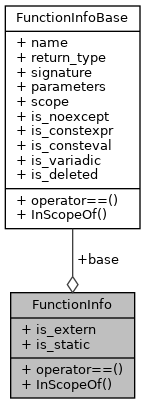
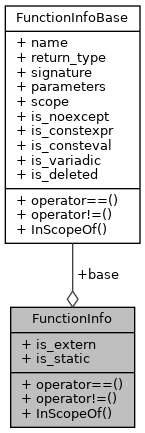
deploy: 03bf936a982f6967fe0e38f501dc85b99609b1d1

Changed region(s): [[0.0276, 0.0, 0.9655, 0.5941], [0.0552, 0.6535, 0.9379, 1.0], [0.5241, 0.6238, 0.8276, 0.6535]]

diff --git a/_function_info_8h_source.html b/_function_info_8h_source.html
@@ -110,58 +110,69 @@ $(document).ready(function(){initNavTree('_function_info_8h_source.html',''); in
 <div class="line"><a name="l00030"></a><span class="lineno">   30</span>&#160;    );</div>
 <div class="line"><a name="l00031"></a><span class="lineno">   31</span>&#160;  }</div>
 <div class="line"><a name="l00032"></a><span class="lineno">   32</span>&#160; </div>
-<div class="line"><a name="l00033"></a><span class="lineno">   33</span>&#160;  <span class="keywordtype">bool</span> InScopeOf(<span class="keyword">const</span> std::vector&lt;std::string&gt; &amp;rhs_scope) <span class="keyword">const</span> noexcept {</div>
-<div class="line"><a name="l00034"></a><span class="lineno">   34</span>&#160;    <span class="keywordflow">return</span> scope.size() &gt;= rhs_scope.size()</div>
-<div class="line"><a name="l00035"></a><span class="lineno">   35</span>&#160;      &amp;&amp; std::equal(rhs_scope.begin(), rhs_scope.end(), scope.begin());</div>
-<div class="line"><a name="l00036"></a><span class="lineno">   36</span>&#160;  }</div>
-<div class="line"><a name="l00037"></a><span class="lineno">   37</span>&#160;} <a class="code" href="struct_function_info_base.html">FunctionBase</a>;</div>
-<div class="line"><a name="l00038"></a><span class="lineno">   38</span>&#160; </div>
-<div class="line"><a name="l00043"></a><span class="lineno"><a class="line" href="struct_member_function_info.html">   43</a></span>&#160;<span class="keyword">typedef</span> <span class="keyword">struct </span><a class="code" href="struct_member_function_info.html">MemberFunctionInfo</a> {</div>
-<div class="line"><a name="l00044"></a><span class="lineno">   44</span>&#160;  <span class="keyword">enum class</span> AccessSpecifier : int {</div>
-<div class="line"><a name="l00045"></a><span class="lineno">   45</span>&#160;    kPublic,</div>
-<div class="line"><a name="l00046"></a><span class="lineno">   46</span>&#160;    kPrivate,</div>
-<div class="line"><a name="l00047"></a><span class="lineno">   47</span>&#160;    kProtected</div>
-<div class="line"><a name="l00048"></a><span class="lineno">   48</span>&#160;  };</div>
-<div class="line"><a name="l00049"></a><span class="lineno">   49</span>&#160;  <a class="code" href="struct_function_info_base.html">FunctionInfoBase</a> base;</div>
-<div class="line"><a name="l00050"></a><span class="lineno">   50</span>&#160;  std::string class_name;</div>
-<div class="line"><a name="l00051"></a><span class="lineno">   51</span>&#160;  <span class="keyword">enum</span> AccessSpecifier access_specifier;</div>
-<div class="line"><a name="l00052"></a><span class="lineno">   52</span>&#160;  <span class="keywordtype">bool</span> is_const = <span class="keyword">false</span>;</div>
-<div class="line"><a name="l00053"></a><span class="lineno">   53</span>&#160;  <span class="keywordtype">bool</span> is_volatile = <span class="keyword">false</span>;</div>
-<div class="line"><a name="l00054"></a><span class="lineno">   54</span>&#160;  <span class="keywordtype">bool</span> is_polymorphic = <span class="keyword">false</span>;  </div>
-<div class="line"><a name="l00055"></a><span class="lineno"><a class="line" href="struct_member_function_info.html#a7a6d151d49ed90f919416332c3b09677">   55</a></span>&#160;  std::vector&lt;std::string&gt; <a class="code" href="struct_member_function_info.html#a7a6d151d49ed90f919416332c3b09677">base_classes</a>;</div>
-<div class="line"><a name="l00056"></a><span class="lineno">   56</span>&#160; </div>
-<div class="line"><a name="l00057"></a><span class="lineno">   57</span>&#160;  <span class="keywordtype">bool</span> operator== (<span class="keyword">const</span> <a class="code" href="struct_member_function_info.html">MemberFunctionInfo</a> &amp;rhs) <span class="keyword">const</span> noexcept {</div>
-<div class="line"><a name="l00058"></a><span class="lineno">   58</span>&#160;    <span class="keywordflow">return</span> (base == rhs.base</div>
-<div class="line"><a name="l00059"></a><span class="lineno">   59</span>&#160;      &amp;&amp; class_name == rhs.class_name</div>
-<div class="line"><a name="l00060"></a><span class="lineno">   60</span>&#160;      &amp;&amp; is_const == rhs.is_const</div>
-<div class="line"><a name="l00061"></a><span class="lineno">   61</span>&#160;      &amp;&amp; is_volatile == rhs.is_volatile</div>
-<div class="line"><a name="l00062"></a><span class="lineno">   62</span>&#160;    );</div>
-<div class="line"><a name="l00063"></a><span class="lineno">   63</span>&#160;  }</div>
-<div class="line"><a name="l00064"></a><span class="lineno">   64</span>&#160; </div>
-<div class="line"><a name="l00065"></a><span class="lineno">   65</span>&#160;  <span class="keywordtype">bool</span> InScopeOf(<span class="keyword">const</span> std::vector&lt;std::string&gt; &amp;rhs_scope) <span class="keyword">const</span> noexcept {</div>
-<div class="line"><a name="l00066"></a><span class="lineno">   66</span>&#160;    <span class="keywordflow">return</span> base.InScopeOf(rhs_scope);</div>
-<div class="line"><a name="l00067"></a><span class="lineno">   67</span>&#160;  }</div>
-<div class="line"><a name="l00068"></a><span class="lineno">   68</span>&#160;} <a class="code" href="struct_member_function_info.html">MemberFunctionInfo</a>;</div>
-<div class="line"><a name="l00069"></a><span class="lineno">   69</span>&#160; </div>
-<div class="line"><a name="l00074"></a><span class="lineno"><a class="line" href="struct_function_info.html">   74</a></span>&#160;<span class="keyword">typedef</span> <span class="keyword">struct </span><a class="code" href="struct_function_info.html">FunctionInfo</a> {</div>
-<div class="line"><a name="l00075"></a><span class="lineno">   75</span>&#160;  <a class="code" href="struct_function_info_base.html">FunctionInfoBase</a> base;</div>
-<div class="line"><a name="l00076"></a><span class="lineno">   76</span>&#160;  <span class="keywordtype">bool</span> is_extern = <span class="keyword">false</span>;</div>
-<div class="line"><a name="l00077"></a><span class="lineno">   77</span>&#160;  <span class="keywordtype">bool</span> is_static = <span class="keyword">false</span>;</div>
-<div class="line"><a name="l00078"></a><span class="lineno">   78</span>&#160; </div>
-<div class="line"><a name="l00079"></a><span class="lineno">   79</span>&#160;  <span class="keywordtype">bool</span> operator== (<span class="keyword">const</span> <a class="code" href="struct_function_info.html">FunctionInfo</a> &amp;rhs) <span class="keyword">const</span> noexcept {</div>
-<div class="line"><a name="l00080"></a><span class="lineno">   80</span>&#160;    <span class="keywordflow">return</span> (base == rhs.base</div>
-<div class="line"><a name="l00081"></a><span class="lineno">   81</span>&#160;    );</div>
-<div class="line"><a name="l00082"></a><span class="lineno">   82</span>&#160;  }</div>
-<div class="line"><a name="l00083"></a><span class="lineno">   83</span>&#160; </div>
-<div class="line"><a name="l00084"></a><span class="lineno">   84</span>&#160;  <span class="keywordtype">bool</span> InScopeOf(<span class="keyword">const</span> std::vector&lt;std::string&gt; &amp;rhs_scope) <span class="keyword">const</span> noexcept {</div>
-<div class="line"><a name="l00085"></a><span class="lineno">   85</span>&#160;    <span class="keywordflow">return</span> base.InScopeOf(rhs_scope);</div>
-<div class="line"><a name="l00086"></a><span class="lineno">   86</span>&#160;  }</div>
-<div class="line"><a name="l00087"></a><span class="lineno">   87</span>&#160;} <a class="code" href="struct_function_info.html">FunctionInfo</a>;</div>
+<div class="line"><a name="l00033"></a><span class="lineno">   33</span>&#160;  <span class="keywordtype">bool</span> operator!= (<span class="keyword">const</span> <a class="code" href="struct_function_info_base.html">FunctionInfoBase</a> &amp;rhs) <span class="keyword">const</span> noexcept {</div>
+<div class="line"><a name="l00034"></a><span class="lineno">   34</span>&#160;    <span class="keywordflow">return</span> !(this-&gt;<a class="code" href="struct_function_info_base.html#a1328156eaf47d5de0c595598dc772e3c">operator==</a>(rhs));</div>
+<div class="line"><a name="l00035"></a><span class="lineno">   35</span>&#160;  }</div>
+<div class="line"><a name="l00036"></a><span class="lineno">   36</span>&#160; </div>
+<div class="line"><a name="l00037"></a><span class="lineno">   37</span>&#160;  <span class="keywordtype">bool</span> InScopeOf(<span class="keyword">const</span> std::vector&lt;std::string&gt; &amp;rhs_scope) <span class="keyword">const</span> noexcept {</div>
+<div class="line"><a name="l00038"></a><span class="lineno">   38</span>&#160;    <span class="keywordflow">return</span> scope.size() &gt;= rhs_scope.size()</div>
+<div class="line"><a name="l00039"></a><span class="lineno">   39</span>&#160;      &amp;&amp; std::equal(rhs_scope.begin(), rhs_scope.end(), scope.begin());</div>
+<div class="line"><a name="l00040"></a><span class="lineno">   40</span>&#160;  }</div>
+<div class="line"><a name="l00041"></a><span class="lineno">   41</span>&#160;} <a class="code" href="struct_function_info_base.html">FunctionBase</a>;</div>
+<div class="line"><a name="l00042"></a><span class="lineno">   42</span>&#160; </div>
+<div class="line"><a name="l00047"></a><span class="lineno"><a class="line" href="struct_member_function_info.html">   47</a></span>&#160;<span class="keyword">typedef</span> <span class="keyword">struct </span><a class="code" href="struct_member_function_info.html">MemberFunctionInfo</a> {</div>
+<div class="line"><a name="l00048"></a><span class="lineno">   48</span>&#160;  <span class="keyword">enum class</span> AccessSpecifier : int {</div>
+<div class="line"><a name="l00049"></a><span class="lineno">   49</span>&#160;    kPublic,</div>
+<div class="line"><a name="l00050"></a><span class="lineno">   50</span>&#160;    kPrivate,</div>
+<div class="line"><a name="l00051"></a><span class="lineno">   51</span>&#160;    kProtected</div>
+<div class="line"><a name="l00052"></a><span class="lineno">   52</span>&#160;  };</div>
+<div class="line"><a name="l00053"></a><span class="lineno">   53</span>&#160;  <a class="code" href="struct_function_info_base.html">FunctionInfoBase</a> base;</div>
+<div class="line"><a name="l00054"></a><span class="lineno">   54</span>&#160;  std::string class_name;</div>
+<div class="line"><a name="l00055"></a><span class="lineno">   55</span>&#160;  <span class="keyword">enum</span> AccessSpecifier access_specifier;</div>
+<div class="line"><a name="l00056"></a><span class="lineno">   56</span>&#160;  <span class="keywordtype">bool</span> is_const = <span class="keyword">false</span>;</div>
+<div class="line"><a name="l00057"></a><span class="lineno">   57</span>&#160;  <span class="keywordtype">bool</span> is_volatile = <span class="keyword">false</span>;</div>
+<div class="line"><a name="l00058"></a><span class="lineno">   58</span>&#160;  <span class="keywordtype">bool</span> is_polymorphic = <span class="keyword">false</span>;  </div>
+<div class="line"><a name="l00059"></a><span class="lineno"><a class="line" href="struct_member_function_info.html#a7a6d151d49ed90f919416332c3b09677">   59</a></span>&#160;  std::vector&lt;std::string&gt; <a class="code" href="struct_member_function_info.html#a7a6d151d49ed90f919416332c3b09677">base_classes</a>;</div>
+<div class="line"><a name="l00060"></a><span class="lineno">   60</span>&#160; </div>
+<div class="line"><a name="l00061"></a><span class="lineno">   61</span>&#160;  <span class="keywordtype">bool</span> operator== (<span class="keyword">const</span> <a class="code" href="struct_member_function_info.html">MemberFunctionInfo</a> &amp;rhs) <span class="keyword">const</span> noexcept {</div>
+<div class="line"><a name="l00062"></a><span class="lineno">   62</span>&#160;    <span class="keywordflow">return</span> (base == rhs.base</div>
+<div class="line"><a name="l00063"></a><span class="lineno">   63</span>&#160;      &amp;&amp; is_const == rhs.is_const</div>
+<div class="line"><a name="l00064"></a><span class="lineno">   64</span>&#160;      &amp;&amp; is_volatile == rhs.is_volatile</div>
+<div class="line"><a name="l00065"></a><span class="lineno">   65</span>&#160;    );</div>
+<div class="line"><a name="l00066"></a><span class="lineno">   66</span>&#160;  }</div>
+<div class="line"><a name="l00067"></a><span class="lineno">   67</span>&#160; </div>
+<div class="line"><a name="l00068"></a><span class="lineno">   68</span>&#160;  <span class="keywordtype">bool</span> operator!= (<span class="keyword">const</span> <a class="code" href="struct_member_function_info.html">MemberFunctionInfo</a> &amp;rhs) <span class="keyword">const</span> noexcept {</div>
+<div class="line"><a name="l00069"></a><span class="lineno">   69</span>&#160;    <span class="keywordflow">return</span> !(this-&gt;operator==(rhs));</div>
+<div class="line"><a name="l00070"></a><span class="lineno">   70</span>&#160;  }</div>
+<div class="line"><a name="l00071"></a><span class="lineno">   71</span>&#160; </div>
+<div class="line"><a name="l00072"></a><span class="lineno">   72</span>&#160;  <span class="keywordtype">bool</span> InScopeOf(<span class="keyword">const</span> std::vector&lt;std::string&gt; &amp;rhs_scope) <span class="keyword">const</span> noexcept {</div>
+<div class="line"><a name="l00073"></a><span class="lineno">   73</span>&#160;    <span class="keywordflow">return</span> base.InScopeOf(rhs_scope);</div>
+<div class="line"><a name="l00074"></a><span class="lineno">   74</span>&#160;  }</div>
+<div class="line"><a name="l00075"></a><span class="lineno">   75</span>&#160;} <a class="code" href="struct_member_function_info.html">MemberFunctionInfo</a>;</div>
+<div class="line"><a name="l00076"></a><span class="lineno">   76</span>&#160; </div>
+<div class="line"><a name="l00081"></a><span class="lineno"><a class="line" href="struct_function_info.html">   81</a></span>&#160;<span class="keyword">typedef</span> <span class="keyword">struct </span><a class="code" href="struct_function_info.html">FunctionInfo</a> {</div>
+<div class="line"><a name="l00082"></a><span class="lineno">   82</span>&#160;  <a class="code" href="struct_function_info_base.html">FunctionInfoBase</a> base;</div>
+<div class="line"><a name="l00083"></a><span class="lineno">   83</span>&#160;  <span class="keywordtype">bool</span> is_extern = <span class="keyword">false</span>;</div>
+<div class="line"><a name="l00084"></a><span class="lineno">   84</span>&#160;  <span class="keywordtype">bool</span> is_static = <span class="keyword">false</span>;</div>
+<div class="line"><a name="l00085"></a><span class="lineno">   85</span>&#160; </div>
+<div class="line"><a name="l00086"></a><span class="lineno">   86</span>&#160;  <span class="keywordtype">bool</span> operator== (<span class="keyword">const</span> <a class="code" href="struct_function_info.html">FunctionInfo</a> &amp;rhs) <span class="keyword">const</span> noexcept {</div>
+<div class="line"><a name="l00087"></a><span class="lineno">   87</span>&#160;    <span class="keywordflow">return</span> (base == rhs.base</div>
+<div class="line"><a name="l00088"></a><span class="lineno">   88</span>&#160;    );</div>
+<div class="line"><a name="l00089"></a><span class="lineno">   89</span>&#160;  }</div>
+<div class="line"><a name="l00090"></a><span class="lineno">   90</span>&#160; </div>
+<div class="line"><a name="l00091"></a><span class="lineno">   91</span>&#160;  <span class="keywordtype">bool</span> operator!= (<span class="keyword">const</span> <a class="code" href="struct_function_info.html">FunctionInfo</a> &amp;rhs) <span class="keyword">const</span> noexcept {</div>
+<div class="line"><a name="l00092"></a><span class="lineno">   92</span>&#160;    <span class="keywordflow">return</span> !(this-&gt;operator==(rhs));</div>
+<div class="line"><a name="l00093"></a><span class="lineno">   93</span>&#160;  }</div>
+<div class="line"><a name="l00094"></a><span class="lineno">   94</span>&#160; </div>
+<div class="line"><a name="l00095"></a><span class="lineno">   95</span>&#160;  <span class="keywordtype">bool</span> InScopeOf(<span class="keyword">const</span> std::vector&lt;std::string&gt; &amp;rhs_scope) <span class="keyword">const</span> noexcept {</div>
+<div class="line"><a name="l00096"></a><span class="lineno">   96</span>&#160;    <span class="keywordflow">return</span> base.InScopeOf(rhs_scope);</div>
+<div class="line"><a name="l00097"></a><span class="lineno">   97</span>&#160;  }</div>
+<div class="line"><a name="l00098"></a><span class="lineno">   98</span>&#160;} <a class="code" href="struct_function_info.html">FunctionInfo</a>;</div>
 <div class="ttc" id="astruct_function_info_base_html"><div class="ttname"><a href="struct_function_info_base.html">FunctionInfoBase</a></div><div class="ttdef"><b>Definition:</b> FunctionInfo.h:5</div></div>
 <div class="ttc" id="astruct_function_info_base_html_a1328156eaf47d5de0c595598dc772e3c"><div class="ttname"><a href="struct_function_info_base.html#a1328156eaf47d5de0c595598dc772e3c">FunctionInfoBase::operator==</a></div><div class="ttdeci">bool operator==(const FunctionInfoBase &amp;rhs) const noexcept</div><div class="ttdoc">operator== for overload check</div><div class="ttdef"><b>Definition:</b> FunctionInfo.h:26</div></div>
-<div class="ttc" id="astruct_function_info_html"><div class="ttname"><a href="struct_function_info.html">FunctionInfo</a></div><div class="ttdoc">Function Info.</div><div class="ttdef"><b>Definition:</b> FunctionInfo.h:74</div></div>
-<div class="ttc" id="astruct_member_function_info_html"><div class="ttname"><a href="struct_member_function_info.html">MemberFunctionInfo</a></div><div class="ttdoc">Member Function Info.</div><div class="ttdef"><b>Definition:</b> FunctionInfo.h:43</div></div>
-<div class="ttc" id="astruct_member_function_info_html_a7a6d151d49ed90f919416332c3b09677"><div class="ttname"><a href="struct_member_function_info.html#a7a6d151d49ed90f919416332c3b09677">MemberFunctionInfo::base_classes</a></div><div class="ttdeci">std::vector&lt; std::string &gt; base_classes</div><div class="ttdoc">virtual, override or final</div><div class="ttdef"><b>Definition:</b> FunctionInfo.h:55</div></div>
+<div class="ttc" id="astruct_function_info_html"><div class="ttname"><a href="struct_function_info.html">FunctionInfo</a></div><div class="ttdoc">Function Info.</div><div class="ttdef"><b>Definition:</b> FunctionInfo.h:81</div></div>
+<div class="ttc" id="astruct_member_function_info_html"><div class="ttname"><a href="struct_member_function_info.html">MemberFunctionInfo</a></div><div class="ttdoc">Member Function Info.</div><div class="ttdef"><b>Definition:</b> FunctionInfo.h:47</div></div>
+<div class="ttc" id="astruct_member_function_info_html_a7a6d151d49ed90f919416332c3b09677"><div class="ttname"><a href="struct_member_function_info.html#a7a6d151d49ed90f919416332c3b09677">MemberFunctionInfo::base_classes</a></div><div class="ttdeci">std::vector&lt; std::string &gt; base_classes</div><div class="ttdoc">virtual, override or final</div><div class="ttdef"><b>Definition:</b> FunctionInfo.h:59</div></div>
 </div><!-- fragment --></div><!-- contents -->
 </div><!-- doc-content -->
 <!-- start footer part -->

diff --git a/navtreeindex0.js b/navtreeindex0.js
@@ -89,38 +89,41 @@ var NAVTREEINDEX0 =
 "index.html#autotoc_md3":[2],
 "pages.html":[],
 "struct_function_info.html":[3,0,4],
-"struct_function_info.html#a029827f36fe5291a90f5d6815cb9b476":[3,0,4,3],
-"struct_function_info.html#a425ff05a53639f5a5dbec93ae5a2dc3a":[3,0,4,2],
-"struct_function_info.html#a85a8883b128b827424eea5e62fea06b0":[3,0,4,1],
-"struct_function_info.html#a89a47a986c4604fb3f60587b083601f0":[3,0,4,4],
+"struct_function_info.html#a029827f36fe5291a90f5d6815cb9b476":[3,0,4,4],
+"struct_function_info.html#a425ff05a53639f5a5dbec93ae5a2dc3a":[3,0,4,3],
+"struct_function_info.html#a85a8883b128b827424eea5e62fea06b0":[3,0,4,2],
+"struct_function_info.html#a89a47a986c4604fb3f60587b083601f0":[3,0,4,5],
+"struct_function_info.html#ab1622aad036acb0c30dfc29440590562":[3,0,4,1],
 "struct_function_info.html#afc25496428761a4c6978cc37712128e7":[3,0,4,0],
 "struct_function_info_base.html":[3,0,5],
-"struct_function_info_base.html#a1328156eaf47d5de0c595598dc772e3c":[3,0,5,1],
-"struct_function_info_base.html#a13d15b1b9093853e6567a458125aed7d":[3,0,5,4],
-"struct_function_info_base.html#a140a23f77644891f38a44bdb56e42aac":[3,0,5,10],
-"struct_function_info_base.html#a4f97312e655f23d09322c238feeed8dd":[3,0,5,7],
-"struct_function_info_base.html#a8f6178ad4111d7b74a694a20cdc9468c":[3,0,5,2],
-"struct_function_info_base.html#aade7c6eaf887dc6d22d0ad11ea58897e":[3,0,5,9],
+"struct_function_info_base.html#a1328156eaf47d5de0c595598dc772e3c":[3,0,5,2],
+"struct_function_info_base.html#a13d15b1b9093853e6567a458125aed7d":[3,0,5,5],
+"struct_function_info_base.html#a140a23f77644891f38a44bdb56e42aac":[3,0,5,11],
+"struct_function_info_base.html#a4f97312e655f23d09322c238feeed8dd":[3,0,5,8],
+"struct_function_info_base.html#a555fb501076e6807b54ca5d5c18b0f67":[3,0,5,1],
+"struct_function_info_base.html#a8f6178ad4111d7b74a694a20cdc9468c":[3,0,5,3],
+"struct_function_info_base.html#aade7c6eaf887dc6d22d0ad11ea58897e":[3,0,5,10],
 "struct_function_info_base.html#aba9ea6975a654017937380d0a039c7e2":[3,0,5,0],
-"struct_function_info_base.html#ac2ecd66cafab17d770f9e93345198dca":[3,0,5,8],
-"struct_function_info_base.html#ad6e3fb462bdb5402b3d91641932c2d69":[3,0,5,11],
-"struct_function_info_base.html#adbff0c51a1e7e77e5621437be349efd5":[3,0,5,6],
-"struct_function_info_base.html#ae43bc616e5b3e9352f62d4c68608495e":[3,0,5,5],
-"struct_function_info_base.html#ae6290dd1a6a8fced103569a68ec55305":[3,0,5,3],
+"struct_function_info_base.html#ac2ecd66cafab17d770f9e93345198dca":[3,0,5,9],
+"struct_function_info_base.html#ad6e3fb462bdb5402b3d91641932c2d69":[3,0,5,12],
+"struct_function_info_base.html#adbff0c51a1e7e77e5621437be349efd5":[3,0,5,7],
+"struct_function_info_base.html#ae43bc616e5b3e9352f62d4c68608495e":[3,0,5,6],
+"struct_function_info_base.html#ae6290dd1a6a8fced103569a68ec55305":[3,0,5,4],
 "struct_member_function_info.html":[3,0,9],
-"struct_member_function_info.html#a0810f63ec37e54c2ae62b83585b0d92b":[3,0,9,8],
-"struct_member_function_info.html#a44a151cb8e3db28bd044f28d728283a7":[3,0,9,6],
-"struct_member_function_info.html#a5810c931eaa6aee214292f570720cf78":[3,0,9,4],
-"struct_member_function_info.html#a5cdab038d2a53050c1fca11b5584c7f8":[3,0,9,3],
-"struct_member_function_info.html#a7a6d151d49ed90f919416332c3b09677":[3,0,9,5],
-"struct_member_function_info.html#a87b15c204794d81bc9ab853757ca45c3":[3,0,9,9],
+"struct_member_function_info.html#a0810f63ec37e54c2ae62b83585b0d92b":[3,0,9,9],
+"struct_member_function_info.html#a1419f1e929406669d4ff9ecc70997339":[3,0,9,2],
+"struct_member_function_info.html#a44a151cb8e3db28bd044f28d728283a7":[3,0,9,7],
+"struct_member_function_info.html#a5810c931eaa6aee214292f570720cf78":[3,0,9,5],
+"struct_member_function_info.html#a5cdab038d2a53050c1fca11b5584c7f8":[3,0,9,4],
+"struct_member_function_info.html#a7a6d151d49ed90f919416332c3b09677":[3,0,9,6],
+"struct_member_function_info.html#a87b15c204794d81bc9ab853757ca45c3":[3,0,9,10],
 "struct_member_function_info.html#aad36e8db1fb2ccaa9483d9965e20bd27":[3,0,9,0],
 "struct_member_function_info.html#aad36e8db1fb2ccaa9483d9965e20bd27a23f56d95d0068609bb9b60b62af3a054":[3,0,9,0,1],
 "struct_member_function_info.html#aad36e8db1fb2ccaa9483d9965e20bd27a29b22e010bf2edfbf57a7a03522a64c9":[3,0,9,0,2],
 "struct_member_function_info.html#aad36e8db1fb2ccaa9483d9965e20bd27a8576a54b49c65252099050c24aa98095":[3,0,9,0,0],
-"struct_member_function_info.html#aced0283eb918bbf5106c72d3ad49aa8c":[3,0,9,7],
+"struct_member_function_info.html#aced0283eb918bbf5106c72d3ad49aa8c":[3,0,9,8],
 "struct_member_function_info.html#adda7314112dec2720e5ee0cc96a73616":[3,0,9,1],
-"struct_member_function_info.html#af4486e4066ab4496961a2c0274f5141f":[3,0,9,2],
+"struct_member_function_info.html#af4486e4066ab4496961a2c0274f5141f":[3,0,9,3],
 "struct_scope_info.html":[3,0,10],
 "struct_scope_info.html#a286b0a8f605eaefaa12d8cd53fd67f6e":[3,0,10,1],
 "struct_scope_info.html#a3704af78e6b8cab0d20950a5ea4e5a98":[3,0,10,2],

diff --git a/struct_function_info_base-members.html b/struct_function_info_base-members.html
@@ -97,11 +97,12 @@ $(document).ready(function(){initNavTree('struct_function_info_base.html',''); i
   <tr bgcolor="#f0f0f0" class="even"><td class="entry"><b>is_noexcept</b> (defined in <a class="el" href="struct_function_info_base.html">FunctionInfoBase</a>)</td><td class="entry"><a class="el" href="struct_function_info_base.html">FunctionInfoBase</a></td><td class="entry"></td></tr>
   <tr bgcolor="#f0f0f0"><td class="entry"><b>is_variadic</b> (defined in <a class="el" href="struct_function_info_base.html">FunctionInfoBase</a>)</td><td class="entry"><a class="el" href="struct_function_info_base.html">FunctionInfoBase</a></td><td class="entry"></td></tr>
   <tr bgcolor="#f0f0f0" class="even"><td class="entry"><b>name</b> (defined in <a class="el" href="struct_function_info_base.html">FunctionInfoBase</a>)</td><td class="entry"><a class="el" href="struct_function_info_base.html">FunctionInfoBase</a></td><td class="entry"></td></tr>
-  <tr><td class="entry"><a class="el" href="struct_function_info_base.html#a1328156eaf47d5de0c595598dc772e3c">operator==</a>(const FunctionInfoBase &amp;rhs) const noexcept</td><td class="entry"><a class="el" href="struct_function_info_base.html">FunctionInfoBase</a></td><td class="entry"><span class="mlabel">inline</span></td></tr>
-  <tr bgcolor="#f0f0f0" class="even"><td class="entry"><b>parameters</b> (defined in <a class="el" href="struct_function_info_base.html">FunctionInfoBase</a>)</td><td class="entry"><a class="el" href="struct_function_info_base.html">FunctionInfoBase</a></td><td class="entry"></td></tr>
-  <tr bgcolor="#f0f0f0"><td class="entry"><b>return_type</b> (defined in <a class="el" href="struct_function_info_base.html">FunctionInfoBase</a>)</td><td class="entry"><a class="el" href="struct_function_info_base.html">FunctionInfoBase</a></td><td class="entry"></td></tr>
-  <tr bgcolor="#f0f0f0" class="even"><td class="entry"><b>scope</b> (defined in <a class="el" href="struct_function_info_base.html">FunctionInfoBase</a>)</td><td class="entry"><a class="el" href="struct_function_info_base.html">FunctionInfoBase</a></td><td class="entry"></td></tr>
-  <tr bgcolor="#f0f0f0"><td class="entry"><b>signature</b> (defined in <a class="el" href="struct_function_info_base.html">FunctionInfoBase</a>)</td><td class="entry"><a class="el" href="struct_function_info_base.html">FunctionInfoBase</a></td><td class="entry"></td></tr>
+  <tr bgcolor="#f0f0f0"><td class="entry"><b>operator!=</b>(const FunctionInfoBase &amp;rhs) const noexcept (defined in <a class="el" href="struct_function_info_base.html">FunctionInfoBase</a>)</td><td class="entry"><a class="el" href="struct_function_info_base.html">FunctionInfoBase</a></td><td class="entry"><span class="mlabel">inline</span></td></tr>
+  <tr class="even"><td class="entry"><a class="el" href="struct_function_info_base.html#a1328156eaf47d5de0c595598dc772e3c">operator==</a>(const FunctionInfoBase &amp;rhs) const noexcept</td><td class="entry"><a class="el" href="struct_function_info_base.html">FunctionInfoBase</a></td><td class="entry"><span class="mlabel">inline</span></td></tr>
+  <tr bgcolor="#f0f0f0"><td class="entry"><b>parameters</b> (defined in <a class="el" href="struct_function_info_base.html">FunctionInfoBase</a>)</td><td class="entry"><a class="el" href="struct_function_info_base.html">FunctionInfoBase</a></td><td class="entry"></td></tr>
+  <tr bgcolor="#f0f0f0" class="even"><td class="entry"><b>return_type</b> (defined in <a class="el" href="struct_function_info_base.html">FunctionInfoBase</a>)</td><td class="entry"><a class="el" href="struct_function_info_base.html">FunctionInfoBase</a></td><td class="entry"></td></tr>
+  <tr bgcolor="#f0f0f0"><td class="entry"><b>scope</b> (defined in <a class="el" href="struct_function_info_base.html">FunctionInfoBase</a>)</td><td class="entry"><a class="el" href="struct_function_info_base.html">FunctionInfoBase</a></td><td class="entry"></td></tr>
+  <tr bgcolor="#f0f0f0" class="even"><td class="entry"><b>signature</b> (defined in <a class="el" href="struct_function_info_base.html">FunctionInfoBase</a>)</td><td class="entry"><a class="el" href="struct_function_info_base.html">FunctionInfoBase</a></td><td class="entry"></td></tr>
 </table></div><!-- contents -->
 </div><!-- doc-content -->
 <!-- start footer part -->

diff --git a/struct_member_function_info-members.html b/struct_member_function_info-members.html
@@ -99,7 +99,8 @@ $(document).ready(function(){initNavTree('struct_member_function_info.html','');
   <tr bgcolor="#f0f0f0" class="even"><td class="entry"><b>is_const</b> (defined in <a class="el" href="struct_member_function_info.html">MemberFunctionInfo</a>)</td><td class="entry"><a class="el" href="struct_member_function_info.html">MemberFunctionInfo</a></td><td class="entry"></td></tr>
   <tr bgcolor="#f0f0f0"><td class="entry"><b>is_polymorphic</b> (defined in <a class="el" href="struct_member_function_info.html">MemberFunctionInfo</a>)</td><td class="entry"><a class="el" href="struct_member_function_info.html">MemberFunctionInfo</a></td><td class="entry"></td></tr>
   <tr bgcolor="#f0f0f0" class="even"><td class="entry"><b>is_volatile</b> (defined in <a class="el" href="struct_member_function_info.html">MemberFunctionInfo</a>)</td><td class="entry"><a class="el" href="struct_member_function_info.html">MemberFunctionInfo</a></td><td class="entry"></td></tr>
-  <tr bgcolor="#f0f0f0"><td class="entry"><b>operator==</b>(const MemberFunctionInfo &amp;rhs) const noexcept (defined in <a class="el" href="struct_member_function_info.html">MemberFunctionInfo</a>)</td><td class="entry"><a class="el" href="struct_member_function_info.html">MemberFunctionInfo</a></td><td class="entry"><span class="mlabel">inline</span></td></tr>
+  <tr bgcolor="#f0f0f0"><td class="entry"><b>operator!=</b>(const MemberFunctionInfo &amp;rhs) const noexcept (defined in <a class="el" href="struct_member_function_info.html">MemberFunctionInfo</a>)</td><td class="entry"><a class="el" href="struct_member_function_info.html">MemberFunctionInfo</a></td><td class="entry"><span class="mlabel">inline</span></td></tr>
+  <tr bgcolor="#f0f0f0" class="even"><td class="entry"><b>operator==</b>(const MemberFunctionInfo &amp;rhs) const noexcept (defined in <a class="el" href="struct_member_function_info.html">MemberFunctionInfo</a>)</td><td class="entry"><a class="el" href="struct_member_function_info.html">MemberFunctionInfo</a></td><td class="entry"><span class="mlabel">inline</span></td></tr>
 </table></div><!-- contents -->
 </div><!-- doc-content -->
 <!-- start footer part -->

diff --git a/struct_function_info_base.html b/struct_function_info_base.html
@@ -96,7 +96,7 @@ Collaboration diagram for FunctionInfoBase:</div>
 <div class="dyncontent">
 <div class="center"><img src="struct_function_info_base__coll__graph.png" border="0" usemap="#a_function_info_base_coll__map" alt="Collaboration graph"/></div>
 <map name="a_function_info_base_coll__map" id="a_function_info_base_coll__map">
-<area shape="rect" title=" " alt="" coords="5,5,140,229"/>
+<area shape="rect" title=" " alt="" coords="5,5,140,244"/>
 </map>
 </div>
 <table class="memberdecls">
@@ -105,6 +105,9 @@ Public Member Functions</h2></td></tr>
 <tr class="memitem:a1328156eaf47d5de0c595598dc772e3c"><td class="memItemLeft" align="right" valign="top">bool&#160;</td><td class="memItemRight" valign="bottom"><a class="el" href="struct_function_info_base.html#a1328156eaf47d5de0c595598dc772e3c">operator==</a> (const <a class="el" href="struct_function_info_base.html">FunctionInfoBase</a> &amp;rhs) const noexcept</td></tr>
 <tr class="memdesc:a1328156eaf47d5de0c595598dc772e3c"><td class="mdescLeft">&#160;</td><td class="mdescRight">operator== for overload check  <a href="struct_function_info_base.html#a1328156eaf47d5de0c595598dc772e3c">More...</a><br /></td></tr>
 <tr class="separator:a1328156eaf47d5de0c595598dc772e3c"><td class="memSeparator" colspan="2">&#160;</td></tr>
+<tr class="memitem:a555fb501076e6807b54ca5d5c18b0f67"><td class="memItemLeft" align="right" valign="top"><a id="a555fb501076e6807b54ca5d5c18b0f67"></a>
+bool&#160;</td><td class="memItemRight" valign="bottom"><b>operator!=</b> (const <a class="el" href="struct_function_info_base.html">FunctionInfoBase</a> &amp;rhs) const noexcept</td></tr>
+<tr class="separator:a555fb501076e6807b54ca5d5c18b0f67"><td class="memSeparator" colspan="2">&#160;</td></tr>
 <tr class="memitem:aba9ea6975a654017937380d0a039c7e2"><td class="memItemLeft" align="right" valign="top"><a id="aba9ea6975a654017937380d0a039c7e2"></a>
 bool&#160;</td><td class="memItemRight" valign="bottom"><b>InScopeOf</b> (const std::vector&lt; std::string &gt; &amp;rhs_scope) const noexcept</td></tr>
 <tr class="separator:aba9ea6975a654017937380d0a039c7e2"><td class="memSeparator" colspan="2">&#160;</td></tr>

diff --git a/struct_member_function_info.html b/struct_member_function_info.html
@@ -102,8 +102,8 @@ Collaboration diagram for MemberFunctionInfo:</div>
 <div class="dyncontent">
 <div class="center"><img src="struct_member_function_info__coll__graph.png" border="0" usemap="#a_member_function_info_coll__map" alt="Collaboration graph"/></div>
 <map name="a_member_function_info_coll__map" id="a_member_function_info_coll__map">
-<area shape="rect" title="Member Function Info." alt="" coords="5,292,161,457"/>
-<area shape="rect" href="struct_function_info_base.html" title=" " alt="" coords="16,5,151,229"/>
+<area shape="rect" title="Member Function Info." alt="" coords="5,307,161,487"/>
+<area shape="rect" href="struct_function_info_base.html" title=" " alt="" coords="16,5,151,244"/>
 </map>
 </div>
 <table class="memberdecls">
@@ -120,6 +120,9 @@ Public Member Functions</h2></td></tr>
 <tr class="memitem:af4486e4066ab4496961a2c0274f5141f"><td class="memItemLeft" align="right" valign="top"><a id="af4486e4066ab4496961a2c0274f5141f"></a>
 bool&#160;</td><td class="memItemRight" valign="bottom"><b>operator==</b> (const <a class="el" href="struct_member_function_info.html">MemberFunctionInfo</a> &amp;rhs) const noexcept</td></tr>
 <tr class="separator:af4486e4066ab4496961a2c0274f5141f"><td class="memSeparator" colspan="2">&#160;</td></tr>
+<tr class="memitem:a1419f1e929406669d4ff9ecc70997339"><td class="memItemLeft" align="right" valign="top"><a id="a1419f1e929406669d4ff9ecc70997339"></a>
+bool&#160;</td><td class="memItemRight" valign="bottom"><b>operator!=</b> (const <a class="el" href="struct_member_function_info.html">MemberFunctionInfo</a> &amp;rhs) const noexcept</td></tr>
+<tr class="separator:a1419f1e929406669d4ff9ecc70997339"><td class="memSeparator" colspan="2">&#160;</td></tr>
 <tr class="memitem:adda7314112dec2720e5ee0cc96a73616"><td class="memItemLeft" align="right" valign="top"><a id="adda7314112dec2720e5ee0cc96a73616"></a>
 bool&#160;</td><td class="memItemRight" valign="bottom"><b>InScopeOf</b> (const std::vector&lt; std::string &gt; &amp;rhs_scope) const noexcept</td></tr>
 <tr class="separator:adda7314112dec2720e5ee0cc96a73616"><td class="memSeparator" colspan="2">&#160;</td></tr>

diff --git a/struct_function_info-members.html b/struct_function_info-members.html
@@ -94,7 +94,8 @@ $(document).ready(function(){initNavTree('struct_function_info.html',''); initRe
   <tr bgcolor="#f0f0f0"><td class="entry"><b>InScopeOf</b>(const std::vector&lt; std::string &gt; &amp;rhs_scope) const noexcept (defined in <a class="el" href="struct_function_info.html">FunctionInfo</a>)</td><td class="entry"><a class="el" href="struct_function_info.html">FunctionInfo</a></td><td class="entry"><span class="mlabel">inline</span></td></tr>
   <tr bgcolor="#f0f0f0" class="even"><td class="entry"><b>is_extern</b> (defined in <a class="el" href="struct_function_info.html">FunctionInfo</a>)</td><td class="entry"><a class="el" href="struct_function_info.html">FunctionInfo</a></td><td class="entry"></td></tr>
   <tr bgcolor="#f0f0f0"><td class="entry"><b>is_static</b> (defined in <a class="el" href="struct_function_info.html">FunctionInfo</a>)</td><td class="entry"><a class="el" href="struct_function_info.html">FunctionInfo</a></td><td class="entry"></td></tr>
-  <tr bgcolor="#f0f0f0" class="even"><td class="entry"><b>operator==</b>(const FunctionInfo &amp;rhs) const noexcept (defined in <a class="el" href="struct_function_info.html">FunctionInfo</a>)</td><td class="entry"><a class="el" href="struct_function_info.html">FunctionInfo</a></td><td class="entry"><span class="mlabel">inline</span></td></tr>
+  <tr bgcolor="#f0f0f0" class="even"><td class="entry"><b>operator!=</b>(const FunctionInfo &amp;rhs) const noexcept (defined in <a class="el" href="struct_function_info.html">FunctionInfo</a>)</td><td class="entry"><a class="el" href="struct_function_info.html">FunctionInfo</a></td><td class="entry"><span class="mlabel">inline</span></td></tr>
+  <tr bgcolor="#f0f0f0"><td class="entry"><b>operator==</b>(const FunctionInfo &amp;rhs) const noexcept (defined in <a class="el" href="struct_function_info.html">FunctionInfo</a>)</td><td class="entry"><a class="el" href="struct_function_info.html">FunctionInfo</a></td><td class="entry"><span class="mlabel">inline</span></td></tr>
 </table></div><!-- contents -->
 </div><!-- doc-content -->
 <!-- start footer part -->

diff --git a/struct_function_info.html b/struct_function_info.html
@@ -101,8 +101,8 @@ Collaboration diagram for FunctionInfo:</div>
 <div class="dyncontent">
 <div class="center"><img src="struct_function_info__coll__graph.png" border="0" usemap="#a_function_info_coll__map" alt="Collaboration graph"/></div>
 <map name="a_function_info_coll__map" id="a_function_info_coll__map">
-<area shape="rect" title="Function Info." alt="" coords="11,292,135,399"/>
-<area shape="rect" href="struct_function_info_base.html" title=" " alt="" coords="5,5,140,229"/>
+<area shape="rect" title="Function Info." alt="" coords="11,307,135,428"/>
+<area shape="rect" href="struct_function_info_base.html" title=" " alt="" coords="5,5,140,244"/>
 </map>
 </div>
 <table class="memberdecls">
@@ -111,6 +111,9 @@ Public Member Functions</h2></td></tr>
 <tr class="memitem:a85a8883b128b827424eea5e62fea06b0"><td class="memItemLeft" align="right" valign="top"><a id="a85a8883b128b827424eea5e62fea06b0"></a>
 bool&#160;</td><td class="memItemRight" valign="bottom"><b>operator==</b> (const <a class="el" href="struct_function_info.html">FunctionInfo</a> &amp;rhs) const noexcept</td></tr>
 <tr class="separator:a85a8883b128b827424eea5e62fea06b0"><td class="memSeparator" colspan="2">&#160;</td></tr>
+<tr class="memitem:ab1622aad036acb0c30dfc29440590562"><td class="memItemLeft" align="right" valign="top"><a id="ab1622aad036acb0c30dfc29440590562"></a>
+bool&#160;</td><td class="memItemRight" valign="bottom"><b>operator!=</b> (const <a class="el" href="struct_function_info.html">FunctionInfo</a> &amp;rhs) const noexcept</td></tr>
+<tr class="separator:ab1622aad036acb0c30dfc29440590562"><td class="memSeparator" colspan="2">&#160;</td></tr>
 <tr class="memitem:afc25496428761a4c6978cc37712128e7"><td class="memItemLeft" align="right" valign="top"><a id="afc25496428761a4c6978cc37712128e7"></a>
 bool&#160;</td><td class="memItemRight" valign="bottom"><b>InScopeOf</b> (const std::vector&lt; std::string &gt; &amp;rhs_scope) const noexcept</td></tr>
 <tr class="separator:afc25496428761a4c6978cc37712128e7"><td class="memSeparator" colspan="2">&#160;</td></tr>

diff --git a/struct_member_function_info.js b/struct_member_function_info.js
@@ -6,6 +6,7 @@ var struct_member_function_info =
       [ "kProtected", "struct_member_function_info.html#aad36e8db1fb2ccaa9483d9965e20bd27a29b22e010bf2edfbf57a7a03522a64c9", null ]
     ] ],
     [ "InScopeOf", "struct_member_function_info.html#adda7314112dec2720e5ee0cc96a73616", null ],
+    [ "operator!=", "struct_member_function_info.html#a1419f1e929406669d4ff9ecc70997339", null ],
     [ "operator==", "struct_member_function_info.html#af4486e4066ab4496961a2c0274f5141f", null ],
     [ "access_specifier", "struct_member_function_info.html#a5cdab038d2a53050c1fca11b5584c7f8", null ],
     [ "base", "struct_member_function_info.html#a5810c931eaa6aee214292f570720cf78", null ],

diff --git a/struct_function_info_base.js b/struct_function_info_base.js
@@ -1,6 +1,7 @@
 var struct_function_info_base =
 [
     [ "InScopeOf", "struct_function_info_base.html#aba9ea6975a654017937380d0a039c7e2", null ],
+    [ "operator!=", "struct_function_info_base.html#a555fb501076e6807b54ca5d5c18b0f67", null ],
     [ "operator==", "struct_function_info_base.html#a1328156eaf47d5de0c595598dc772e3c", null ],
     [ "is_consteval", "struct_function_info_base.html#a8f6178ad4111d7b74a694a20cdc9468c", null ],
     [ "is_constexpr", "struct_function_info_base.html#ae6290dd1a6a8fced103569a68ec55305", null ],

diff --git a/struct_function_info.js b/struct_function_info.js
@@ -1,6 +1,7 @@
 var struct_function_info =
 [
     [ "InScopeOf", "struct_function_info.html#afc25496428761a4c6978cc37712128e7", null ],
+    [ "operator!=", "struct_function_info.html#ab1622aad036acb0c30dfc29440590562", null ],
     [ "operator==", "struct_function_info.html#a85a8883b128b827424eea5e62fea06b0", null ],
     [ "base", "struct_function_info.html#a425ff05a53639f5a5dbec93ae5a2dc3a", null ],
     [ "is_extern", "struct_function_info.html#a029827f36fe5291a90f5d6815cb9b476", null ],
